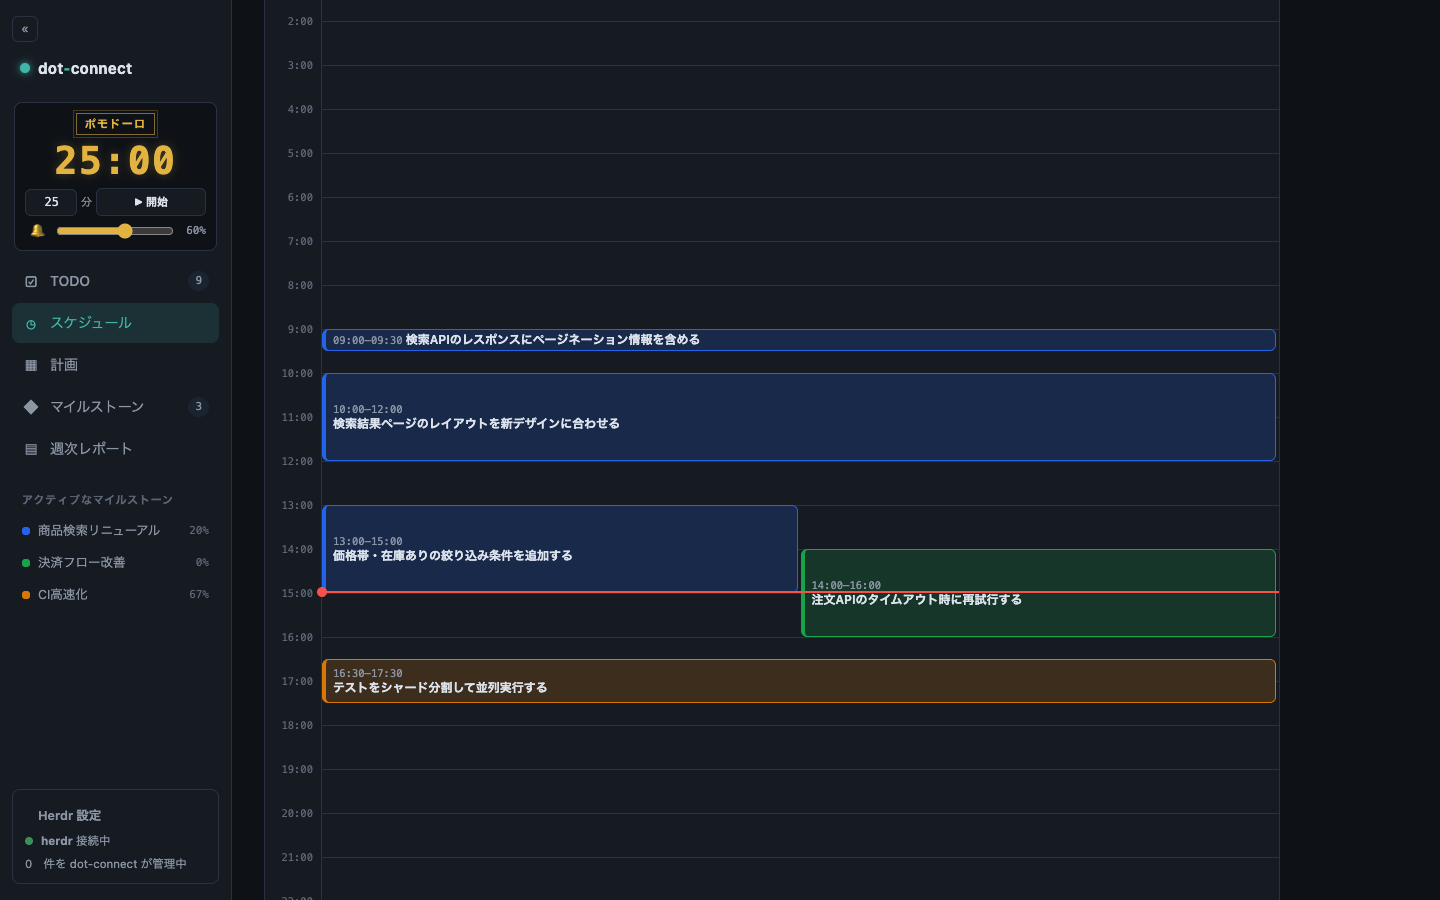
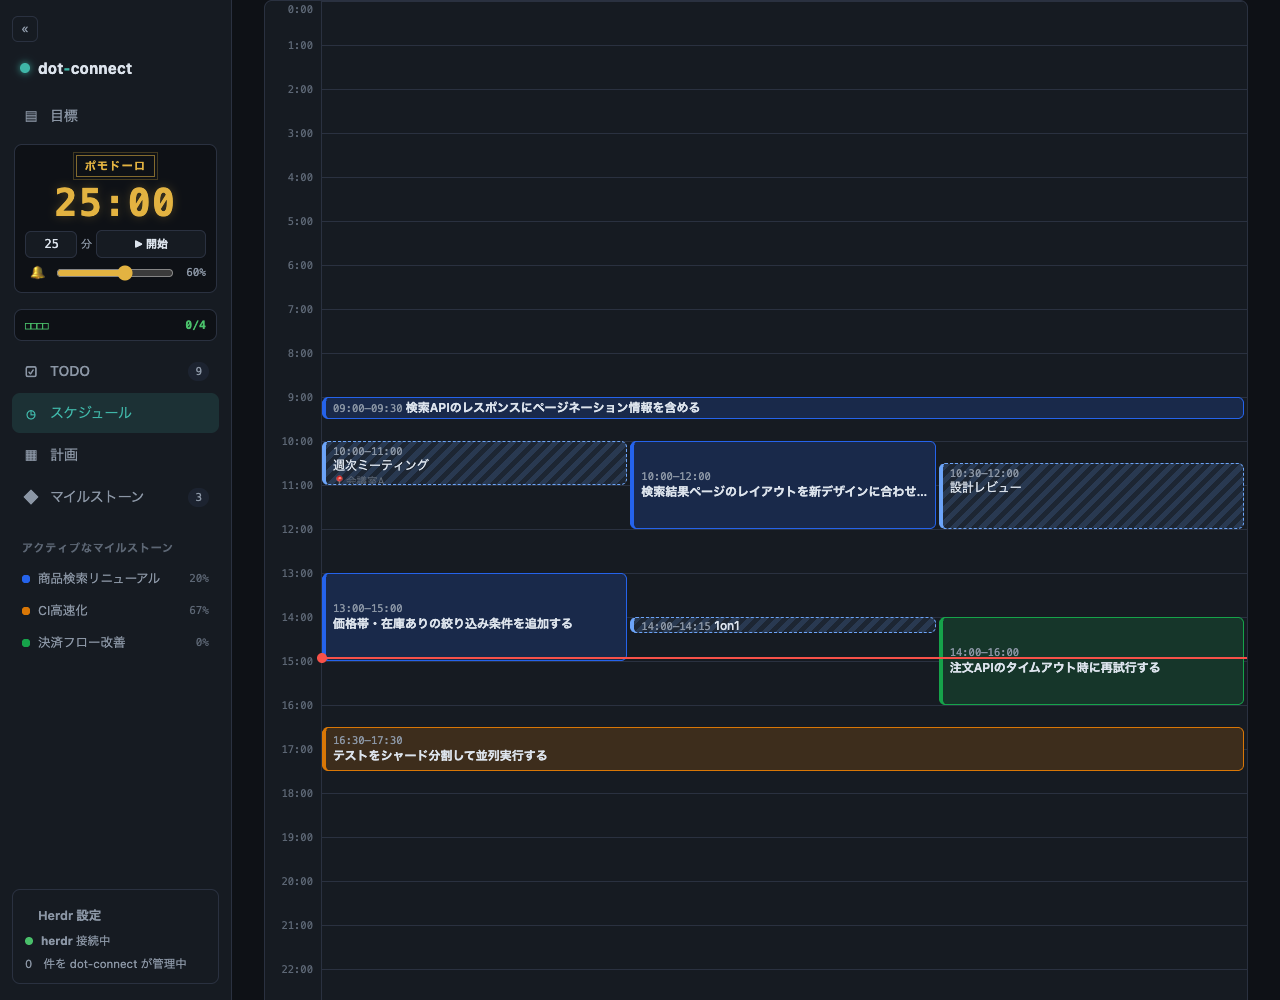
docs: refresh screenshots and describe the Grill → 目標 → 投入 workflow

diff --git a/README.md b/README.md
@@ -9,34 +9,89 @@ herdr上のClaude Code / Codex CLIセッションとして投入(dispatch)し、
 
 ## スクリーンショット
 
-| 週次レポート(起動時に開く。毎日更新される統計、週の目標、AI の振り返り) |
+| 目標(起動時に開く。週の目標、今週終わらせるタスク、毎日更新される統計、AI の振り返り) |
 | --- |
-| ![週次レポート](docs/images/report.png) |
+| ![目標](docs/images/report.png) |
 
-| TODO詳細(PR紐付け・添付・ポモドーロ・作業ログ) | マイルストーン |
+| 自動投入の確認(herdr へ投入する前に必ず許可を取る) | TODO一覧(Grilled 済みは枠と背景が変わり「目標に登録」が出る) |
+| --- | --- |
+| ![自動投入の確認](docs/images/auto-run.png) | ![TODO一覧](docs/images/todos.png) |
+
+| TODO詳細(緊急度/重要度・Grill・PR紐付け・添付・ポモドーロ・作業ログ) | マイルストーン(緊急度/重要度付き) |
 | --- | --- |
 | ![TODO詳細ダイアログ](docs/images/todo-detail.png) | ![マイルストーン](docs/images/milestones.png) |
 
-| スケジュール(1日の予定) | 計画(マイルストーンのタイムライン) |
+| スケジュール(1日の予定。Google カレンダーの予定を色分けで重ねる) | 計画(マイルストーンのタイムライン、優先順位順) |
 | --- | --- |
 | ![スケジュール](docs/images/schedule.png) | ![計画](docs/images/plan.png) |
+
+| 設定: Google カレンダー(複数登録、カレンダーごとの色) |
+| --- |
+| ![Google カレンダーの設定](docs/images/settings-calendars.png) |
 
 スクリーンショットのデータは `scripts/seed-demo.ts` で再現できる(手順は
 [デモデータ](#デモデータ)を参照)。
 
+## 使い方(1週間の流れ)
+
+「やることを集めて、詰めて、今週分を並べ、herdr に流す」が基本の流れ。
+
+1. **`/dot-connect` でやることをざっくりまとめる** — Claude Code で `/dot-connect`
+   スキルを呼び、依頼文やメモを貼る。スキルが TODO とマイルストーンに分解して
+   提案する([Claude Code スキル](#claude-code-スキルdot-connect))。
+2. **整理してもらって TODO として登録する** — 提案を直して承認すると、
+   dot-connect に TODO(タイトル・詳細・モデル・作業ディレクトリ)が入る。
+   GitHub Issue からの取り込みや、TODO 画面の「＋ 新規TODO」でも作れる。
+3. **TODO に緊急度／重要度をつける** — TODO の詳細ダイアログ(タイトルを
+   クリック)か新規フォームで、緊急度と重要度を 1〜5 で付ける。一覧・計画・
+   スケジュールの並びに効き、「緊5 重3」のバッジで見える。マイルストーンにも
+   同じ 2 軸がある。
+4. **Grill me で詳細を詰める** — TODO 行の「Grill me」で herdr のセッションが
+   開き、Claude Code が質問しながら内容を固める。固まったら「Grilled」を押すと
+   TODO のタイトルと説明が整理した内容に置き換わり、行の枠と背景がアクセント色に
+   なる(Grilled 済み)。
+5. **今週終わらせるタスクに追加** — Grilled 済みの行に出る「目標に登録」を押すと、
+   目標ページの「今週終わらせるタスク」に並ぶ。期日が無ければその週の日曜が
+   付く。目標ページの「目標を生成」でも、今週が期日・期限超過・緊急度か重要度が
+   高い TODO をまとめて拾える。herdr に流さず自分でやるタスクは、行の「herdr」を
+   外しておく。
+6. **目標を整理して期日を設定** — 目標ページで Markdown の目標を書く(「整理する」
+   で `claude -p` が読みやすく整える)。「今週終わらせるタスク」は ↑↓ で実行順を
+   決め、各行の期日欄で期日を直す。
+7. **自動投入で順次 herdr に流す** — 一覧の「自動投入」を有効にすると、
+   空き枠(WIP可能数 − バッファ)がある間、上から順に投入を提案する。確認
+   ダイアログで「▶ 投入する」を押したものだけが herdr で動く(勝手には
+   始めない)。急ぐものは各行の「▶ 投入」で手動でも投入できる(バッファぶんの
+   枠まで)。動いているセッションはサイドバーの WIP メーターの下に並び、
+   完了は TODO の「完了にする」で確定する。
+
+Google カレンダーの予定をスケジュール画面に重ねるには、設定(⌘,)の「Google
+カレンダー」に iCal 形式の非公開 URL を登録する([Google カレンダーの予定を
+重ねる](#google-カレンダーの予定を重ねる))。
+
 ## 主な機能
 
-- **TODO**: 説明・優先度・期日・予定(開始/終了時刻)・作業ディレクトリ・
+- **TODO**: 説明・緊急度/重要度・期日・予定(開始/終了時刻)・作業ディレクトリ・
   モデルを持つTODOの管理。期限切れ/最近の更新での絞り込みと並び替え、詳細
   ダイアログ
+- **優先順位(緊急度・重要度)**: TODO とマイルストーンの両方に、緊急度と
+  重要度をそれぞれ 1〜5 で持つ(1 が最低/未設定、5 が最高)。並び順は
+  「合計点が高い順、同点なら緊急度が高い順」で、TODO 一覧・スケジュールの
+  期日欄・計画ページのマイルストーン・サイドバーのアクティブなマイルストーンに
+  効く。行やカードには「緊5 重3」のバッジが出る(両方 1 なら出ない)。
+  以前の 3 段階の優先度(なし/低/高)は初回起動時に緊急度 1/3/5 へ移行する
+  (`priority` 列は残るが読まれない)
 - **スケジュール**: Google カレンダーの日表示のように1日分だけを描く画面。
   上段にその日が期日のTODOの一覧、下段に開始・終了時刻を設定したTODOを置く
   0〜24時のタイムライン(下記)
 - **マイルストーン / ラベル**: マイルストーンごとの進捗表示、ラベルでの
   グルーピング
-- **herdrへの投入**: プロンプト(履歴・スニペット・`{{title}}` /
-  `{{description}}` プレースホルダ)を付けてTODOをエージェントセッションとして
-  起動。セッション状態の同期、完了時のワークスペースclose
+- **herdrへの投入**: TODO 一覧からは投入しない。Grill me → Grilled で内容を
+  詰めた TODO(行の枠と背景がアクセント色になる)を「目標に登録」で目標ページの
+  「今週終わらせるタスク」に入れ、そこから投入する —— 各行の「▶ 投入」
+  (プロンプト・作業ディレクトリ・モデルを確認するダイアログ。自動投入が空けて
+  おくバッファぶんも使える)か、自動投入(下記)。投入は既存どおり herdr 上の
+  Claude Code / Codex CLI セッションとして動き、進捗を同期する
 - **Grill**: TODOの内容をherdr上のClaude Codeとの対話で詰め、結果でタイトル・
   説明を書き換える(下記)
 - **プロンプトから複数登録**: 「新規TODO」から、dot-connect スキル
@@ -53,9 +108,9 @@ herdr上のClaude Code / Codex CLIセッションとして投入(dispatch)し、
 - **作業ログ**: TODOごとのコメント(作業ログ)
 - **PullRequest紐付け**: GitHub PRのURLをTODOに紐付け、`gh` でタイトル・状態を
   取得。openなPRを持つTODOは「レビュー待ち」として表示
-- **週次レポート**: 起動時に開くダッシュボード。完了数・登録数・投入回数・
+- **目標(週次レポート)**: 起動時に開くダッシュボード。完了数・登録数・投入回数・
   期日内完了率・リードタイム・日別の登録/完了・登録から完了が速かった TODO
-  ベスト5・優先度別/マイルストーン別・未完了の状況を開くたびに DB から集計し、
+  ベスト5・緊急度別/重要度別/マイルストーン別・未完了の状況を開くたびに DB から集計し、
   `claude -p` による振り返りを1日1回自動で生成する(下記)
 - **ポモドーロタイマー**: TODOに紐付けた集中タイマー(終了時チャイム、音量調整)
 - **外部連携**: 許可リスト方式のAPIトークン認証、stdio MCPサーバー
@@ -65,14 +120,14 @@ herdr上のClaude Code / Codex CLIセッションとして投入(dispatch)し、
 「＋ 新規TODO」を押すとメニューが開き、いずれかを選ぶ。
 
 - **1件を入力して登録**: 従来のフォーム。タイトル・説明・マイルストーン・
-  優先度・期日・作業ディレクトリ・モデルを入力して1件作る。
+  緊急度・重要度・期日・作業ディレクトリ・モデルを入力して1件作る。
 - **GitHub Issue から取り込み**: リポジトリを `owner/repo` か GitHub の URL
   (リポジトリ・Issue・ファイルのどれでもよい)で指定し、「一覧を取得」で
   `gh issue list` の結果(状態 Open/Closed/すべて、`gh` の検索構文で絞り込み可、
   最大200件)を一覧する。チェックした Issue が「取り込む」で1件ずつ TODO になる
   (`gh issue view` で取り込み時点の内容を読む)。タイトルは Issue のタイトル、
   説明は1行目が Issue の URL、空行を挟んで Issue 本文(TODO の上限 200/4000
-  文字に収まるよう末尾を切る)。ダイアログ下部で選んだマイルストーン・優先度・
+  文字に収まるよう末尾を切る)。ダイアログ下部で選んだマイルストーン・緊急度・重要度・
   作業ディレクトリ・モデルは取り込む全件に付く。説明に同じ Issue の URL を
   持つ未完了 TODO があるものは「取り込み済み」としてチェックできない(その
   TODO が完了済みなら再取り込みできる)。一部の Issue だけ失敗したときは
@@ -96,7 +151,7 @@ herdr上のClaude Code / Codex CLIセッションとして投入(dispatch)し、
 表示する。← → と日付入力で日を移動し、「今日」で戻る。
 
 - **期日(上段)**: その日が期日のTODOの一覧。カレンダーの「終日」欄に相当し、
-  タイムラインとは別に並べる(未完了→優先度→ID順)。クリックで詳細ダイアログ。
+  タイムラインとは別に並べる(未完了→優先順位→ID順)。クリックで詳細ダイアログ。
 - **タイムライン(下段)**: 0〜24時のグリッド。TODOの**予定**(開始時刻・終了
   時刻、`scheduledStart` / `scheduledEnd`)をブロックとして置く。重なる予定は横に
   並べ、今日を表示しているときは現在時刻の線を引く。ブロックのクリックで詳細
@@ -110,9 +165,39 @@ herdr上のClaude Code / Codex CLIセッションとして投入(dispatch)し、
 `YYYY-MM-DDTHH:MM` のローカル時刻(タイムゾーン無し)で、開始と終了は必ず
 ペアで指定し、同じ日・開始<終了でなければ 400 になる。両方 `null` で予定を外す。
 
-### 週次レポート(毎日更新)
+#### Google カレンダーの予定を重ねる
 
-サイドバーの一番上にあり、アプリを開くとまずこの画面が出る。月曜始まりの
+設定(⌘,)の「Google カレンダー」に、名前と、Google カレンダー側の「設定」→
+対象のカレンダー →「iCal 形式の非公開 URL」を入れて追加すると、その
+カレンダーの予定がスケジュール画面に重なる。複数登録でき、カレンダーごとに
+色を持つ(追加順にパレットから割り当て、色をクリックして変えられる)。
+OAuth や Google Cloud の設定は要らない。
+
+- 時刻のある予定はタイムラインにそのカレンダーの色の斜線ブロックとして並ぶ
+  (TODO の予定と重なれば横に並ぶ)。終日の予定は上段の「期日」欄にカレンダー
+  名のタグ付きで出る。どちらも読み取り専用で、クリックしても何も起きない。
+  タイムラインの上にはカレンダーごとのタグ(その日の件数、失敗していれば
+  その理由)と「更新」が並ぶ。
+- サーバーが起動時と 15 分ごとに取り直す(`POST /api/calendar/refresh` /
+  タイムライン上の「更新」で即時)。取れた ICS は DB に残すので、再起動直後や
+  オフラインでも前回の予定が出る。Google 側のフィード更新には数分〜数時間の
+  遅れがあり、「いま入れた予定がすぐ出る」とは限らない。
+- 繰り返し予定(RRULE、移動・削除した回を含む)は ical.js で展開する。展開は
+  今日の 90 日前〜365 日後の窓で行い、窓の外の日は「同期の範囲外」と出る。
+  時刻は TZID / UTC / VTIMEZONE を解決してローカル壁時計に直す。日をまたぐ
+  予定はその日の分だけに切る(`00:00` / `24:00`)。
+- 非公開 URL は実質的な認証情報(URL を知っていれば誰でも予定を読める)。
+  `calendars` テーブルに保存し、ログにもエラーメッセージにも出さない。
+  `GET /api/calendar/events?date=YYYY-MM-DD`(`{ status, events }`、各予定に
+  `calendarId` / `calendarName` / `color`)、`POST /api/calendar/refresh`、
+  一覧の管理 `GET/POST /api/calendar/sources`・`PATCH/DELETE /api/calendar/sources/:id`・
+  `POST /api/calendar/sources/:id/refresh` はブラウザ UI 専用で、API トークン
+  では届かない。カレンダーを外すとキャッシュも消える。最初の版の URL 1 本の
+  設定は、起動時に 1 件目のカレンダーとして自動で移される。
+
+### 目標ページ(週次レポート、毎日更新)
+
+サイドバーの一番上(ラベルは「目標」)にあり、アプリを開くとまずこの画面が出る。月曜始まりの
 1週間が単位で、← → と「今週」で週を移動できる(→ は今週まで)。
 
 - **統計**(`GET /api/reports/weekly/stats`): 保存せず、開くたび・TODO が
@@ -120,12 +205,34 @@ herdr上のClaude Code / Codex CLIセッションとして投入(dispatch)し、
   完了数・登録数・herdr 投入回数(それぞれ前週比)、期日内に完了した割合、
   マイルストーン関連率、登録→完了のリードタイム(中央値・平均)、日別の登録/
   完了の棒グラフ、登録から完了が速かった TODO ベスト5(クリックで詳細)、
-  完了の優先度別・マイルストーン別の内訳、未完了の状況(残り・期限切れ・
+  完了の緊急度別・重要度別・マイルストーン別の内訳、未完了の状況(残り・期限切れ・
   この週が期日)。日付の境界はローカル暦。
 - **目標**(`GET/POST /api/reports/weekly/goal`): 週ごとの自由入力(Markdown)。
   フォーカスするまでは Markdown を描画した表示(見出し・箇条書き・`- [ ]` の
   チェックリスト・太字・リンクなど)で、クリックすると入力欄に切り替わる。保存
   ボタンか Cmd/Ctrl+Enter、または欄を離れたときに保存される(4000文字まで)。
+  「目標を生成」(`POST /api/reports/weekly/goal/generate`)は、その週に期限の
+  あるマイルストーン・TODO、期限超過のもの、緊急度か重要度が 4 以上のものを
+  DB から拾って Markdown のチェックリストの下書きを作り、保存する(LLM は
+  使わない。既に書いてあれば、もう一度押したときだけ置き換え、「元に戻す」で
+  戻せる)。
+  生成で拾った TODO は、目標の下の**今週終わらせるタスク**にも実行順で入る。
+- **今週終わらせるタスク**(`GET/POST /api/reports/weekly/queue`、
+  `PUT …/queue/order`、`DELETE …/queue/:id`): その週に片付ける TODO の実行順。
+  手でも足す・外す(TODO 自体は消えない)・↑↓で並べ替えられる。週に入れた
+  TODO には必ず期日が付く(無ければその週の日曜)。各行の期日欄で変えられる。
+  行の「herdr」(`PATCH …/queue/:id` の `dispatch`)を外すと「自分でやる」タスク
+  になり、一覧には並ぶが自動投入・手動の「投入」の対象から外れる。
+- **自動投入(auto mode)**: 一覧の「自動投入」を有効にすると、空き枠
+  (WIP可能数 − バッファ。バッファは既定 1 で同じ行から変えられる)がある間、
+  並びの上から順に herdr への投入を提案する(バッファぶんの枠は手動の「▶ 投入」
+  のために残す)。候補になるのは未完了・セッション
+  無し・**Grilled 済み**(Grill me → Grilled を通した、`grilledAt` が入っている)・
+  作業ディレクトリありの TODO だけ。投入は**必ず確認ダイアログで許可を
+  もらってから**行う(勝手に始めると herdr 側で権限の確認に引っかかることが
+  あるため)。「今回はスキップ」はその起動中だけ飛ばし、「自動投入を止める」で
+  無効になる。どのページを見ていても提案は出る(30 秒おきに今週の並びを
+  読み直す)。設定は `autoRunEnabled` / `autoRunBuffer`(`GET/PATCH /api/settings`)。
   「整理する」(`POST /api/reports/weekly/goal/tidy`)は `claude -p` で内容・
   意図を変えずに読みやすく整え(重複をまとめ、箇条書きに)、その結果を保存
   する。「整理前に戻す」で直前の本文に戻せる。保存した目標は下の AI の
